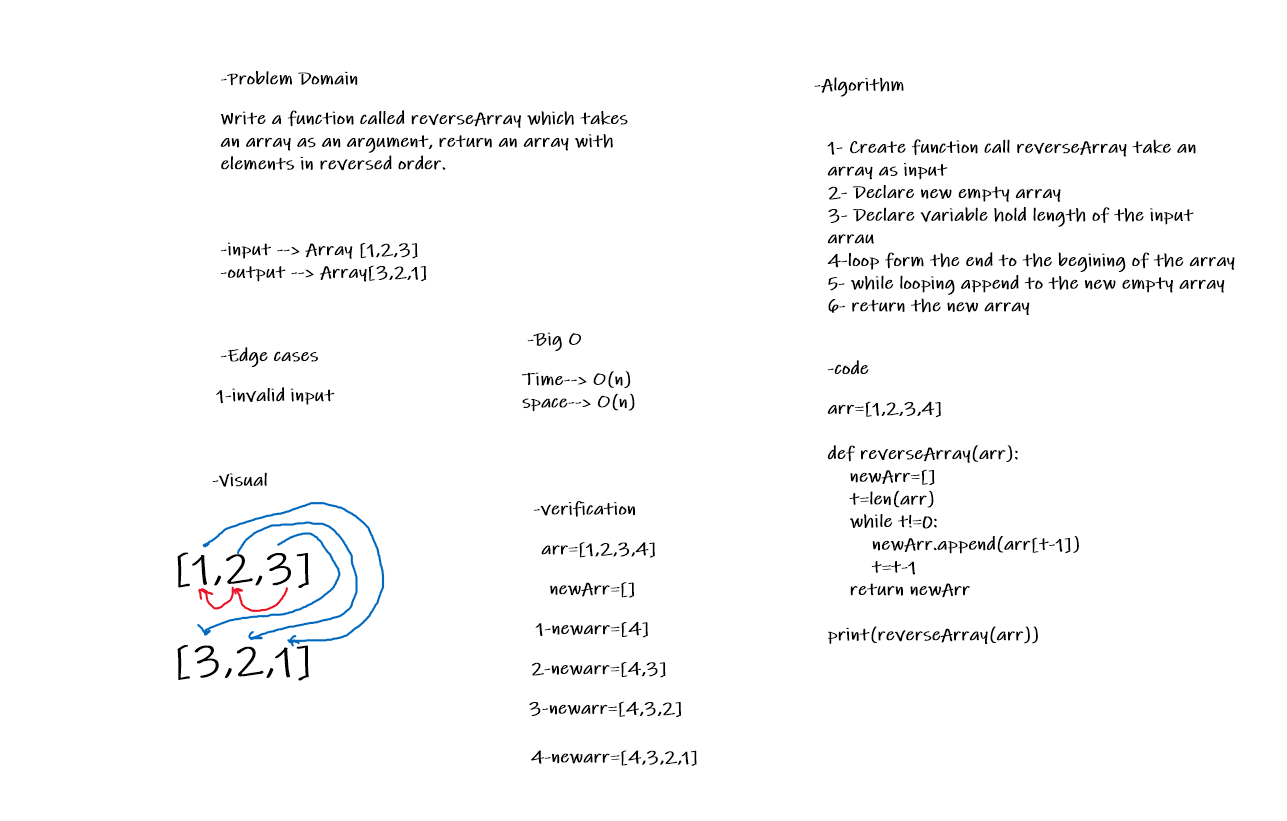
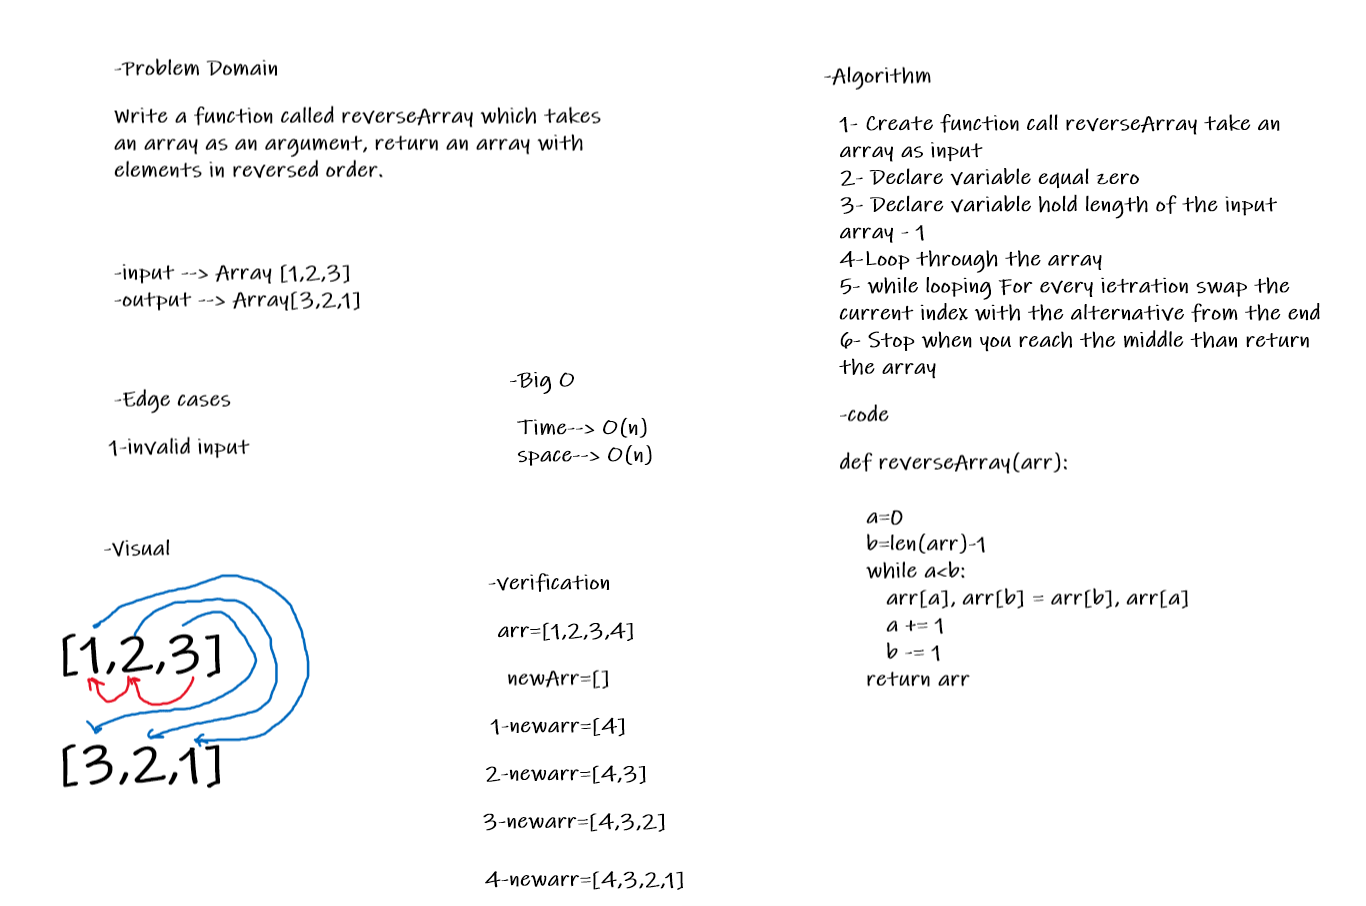
solve the array-reverse challnge without append

diff --git a/array_reverse/test.py b/array_reverse/test.py
@@ -1,11 +1,15 @@
 arr=[1,2,3,4]
 
 def reverseArray(arr):
-    newArr=[]
-    t=len(arr)
-    while t!=0:
-        newArr.append(arr[t-1])
-        t=t-1
-    return newArr
+    
+    a=0
+    b=len(arr)-1
+    while a<b:
+       arr[a], arr[b] = arr[b], arr[a]
+       a += 1
+       b -= 1
+    return arr
+
+    
 
 print(reverseArray(arr))

diff --git a/array_reverse/README.md b/array_reverse/README.md
@@ -8,7 +8,7 @@ Function takes an array as an argument, and return an array with elements in rev
 
 ## Approach & Efficiency
 
-Create function call reverseArray take an array as input, Declare new empty array, Declare variable hold length of the input arrau, loop form the end to the begining of the array, while looping append to the new empty array, return the new array
+Create function call reverseArray take an array as input, Declare variable equal 0, Declare variable hold length of the input array -1 , Loop through the array, while looping For every ietration swap the current index with the alternative from the end, Stop when you reach the middle than return the array.
 
 
 Big O Time--> O(n)
